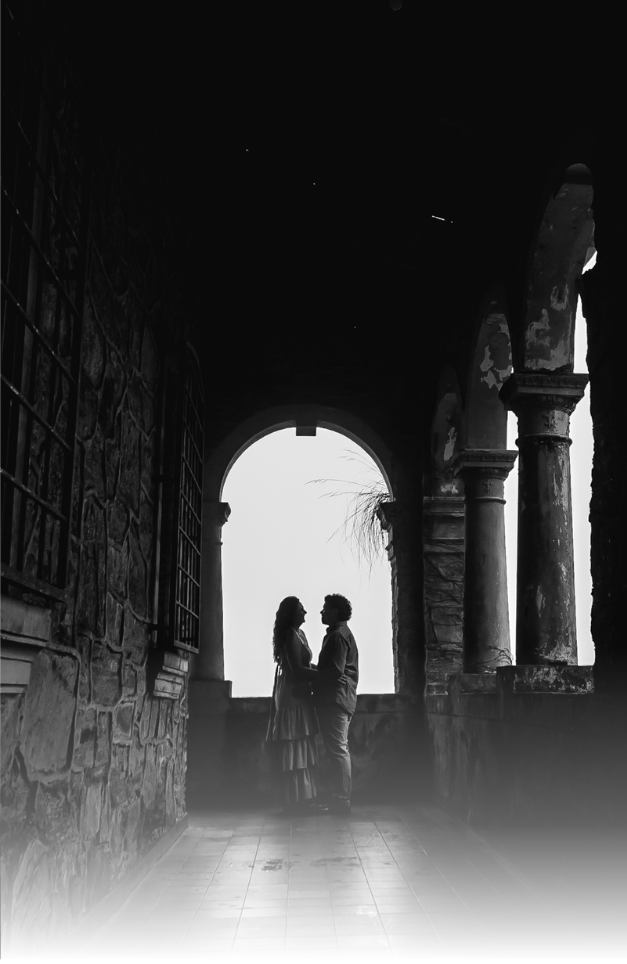
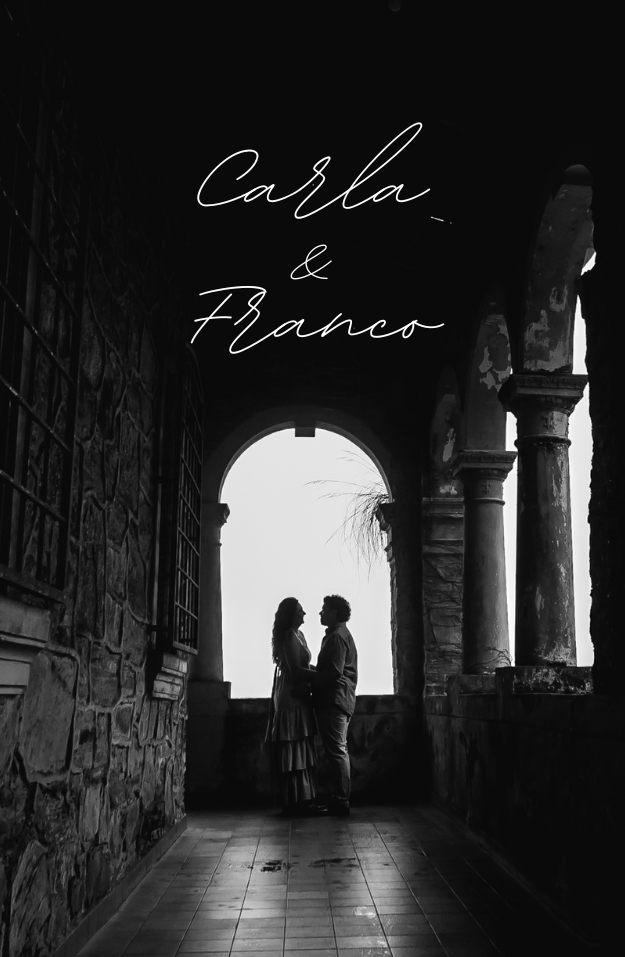
imagen

diff --git a/src/app/Carla&Franco/page.jsx b/src/app/Carla&Franco/page.jsx
@@ -53,7 +53,7 @@ export default function CarlaFranco() {
             mobileColor={mobileNameColor} 
             mobileMarginTop="50px" // Aquí puedes ajustar el margen superior
           >
-            Carla & Franco
+            
           </ResponsiveStyledName>
         }
         fechaCountDown="12 de Abril"
